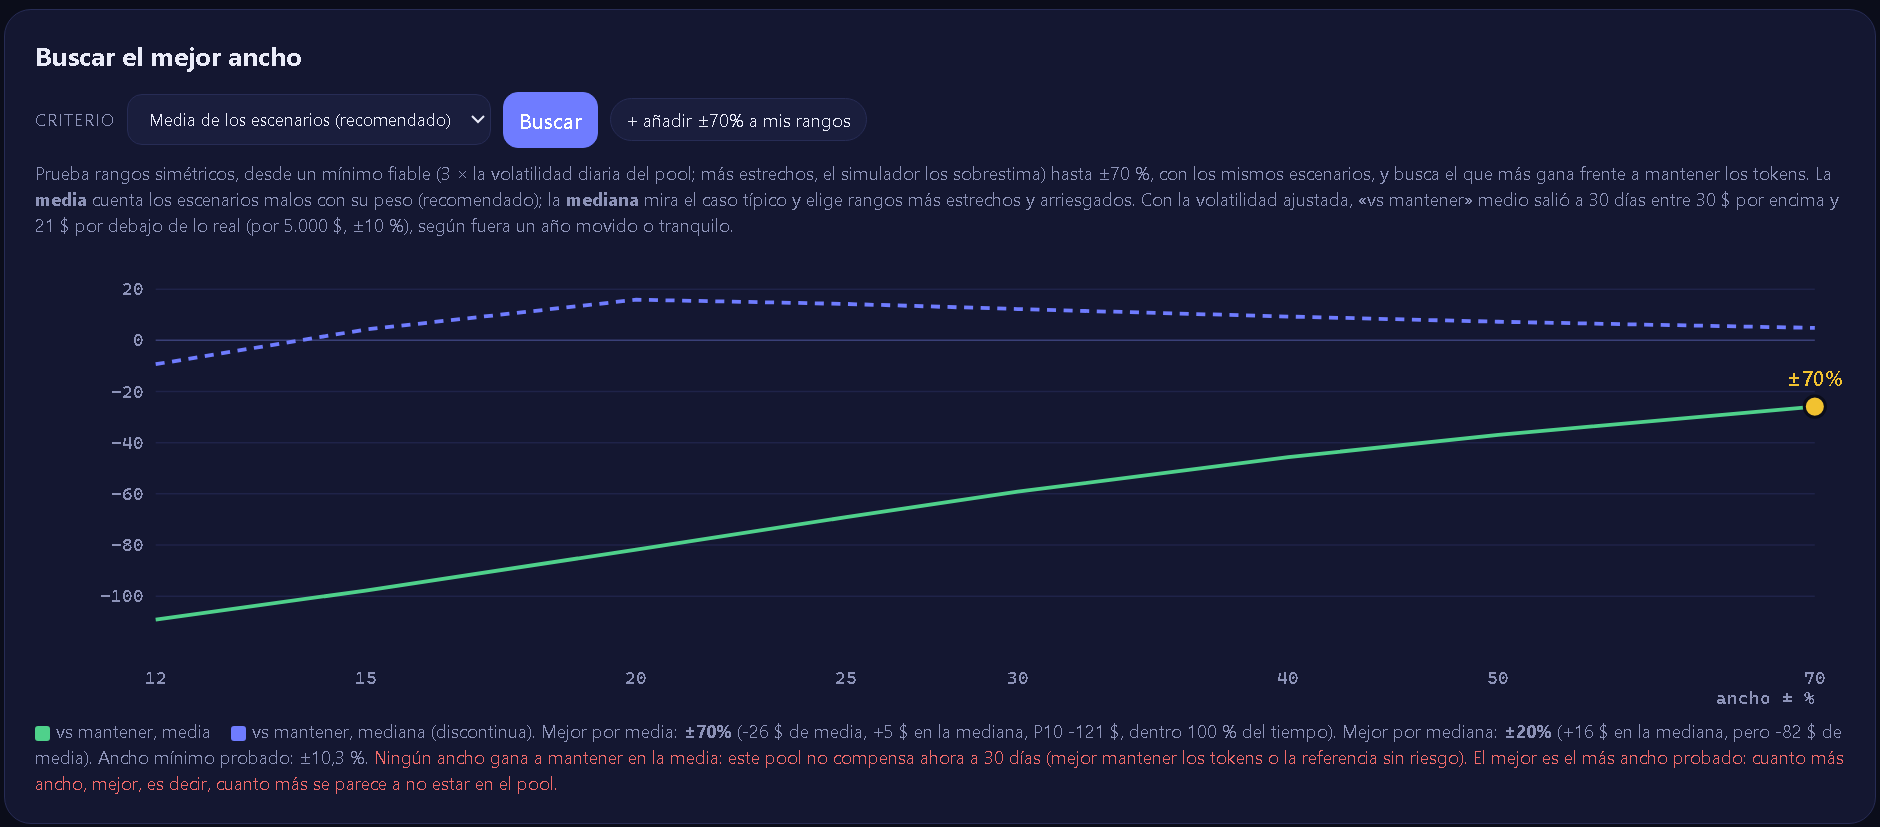
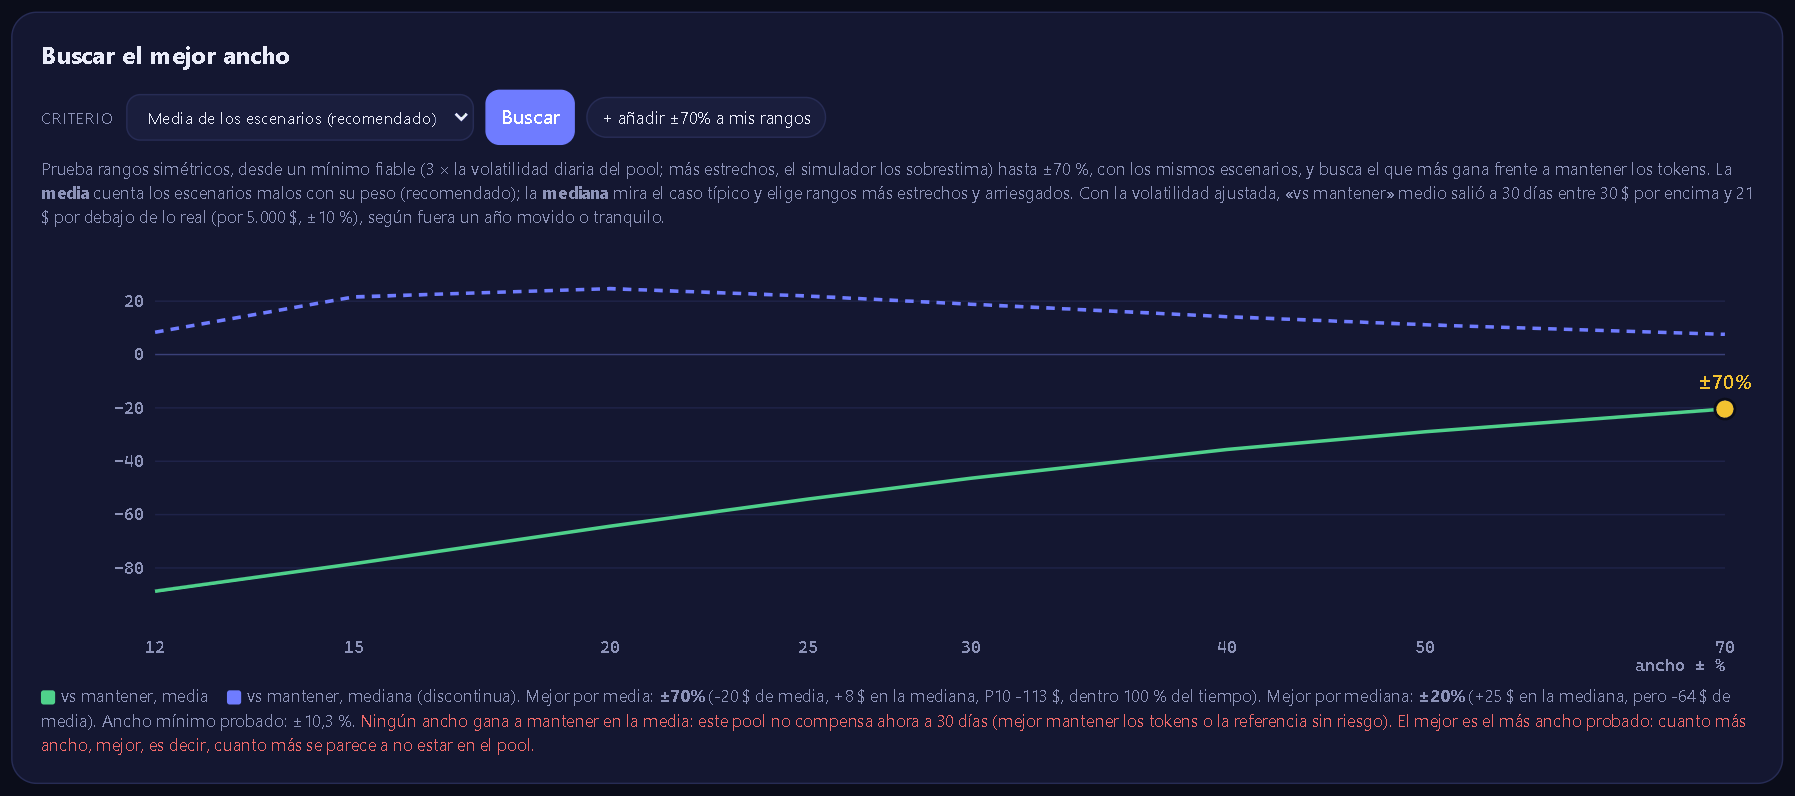
Guía del simulador: capturas rehechas con la pantalla actual (incluida «Tu plan»)

diff --git a/Guia Simulador.md b/Guia Simulador.md
@@ -408,6 +408,8 @@ los demás se juzgan por su histórico, su TVL y el plazo.
 
 ## 5 c. Tu plan (ancho, stop y cobertura juntos)
 
+![Tu plan](docs/img/simulador-1c-plan.png)
+
 Justo debajo de «En resumen». Las secciones de más abajo responden por separado qué ancho, si poner stop y
 si cubrirse con el perpetuo; aquí se prueban **a la vez**, en los mismos escenarios, y se dan dos planes:
 
